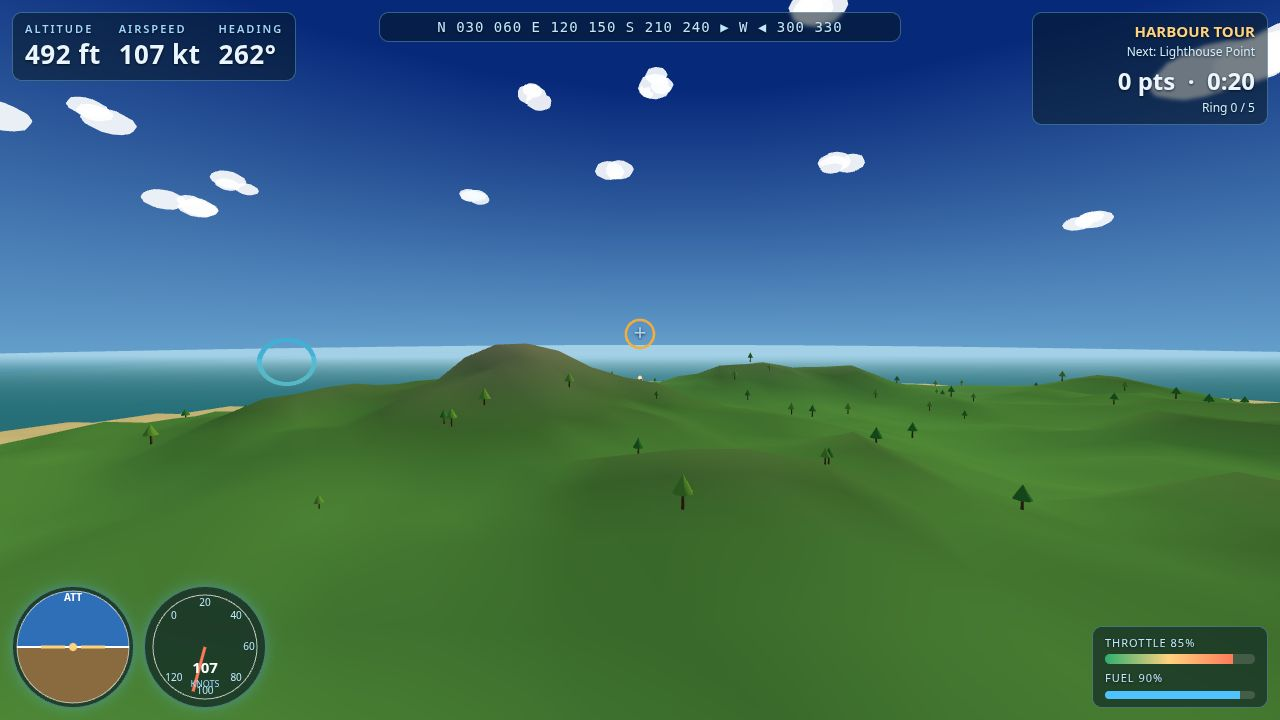
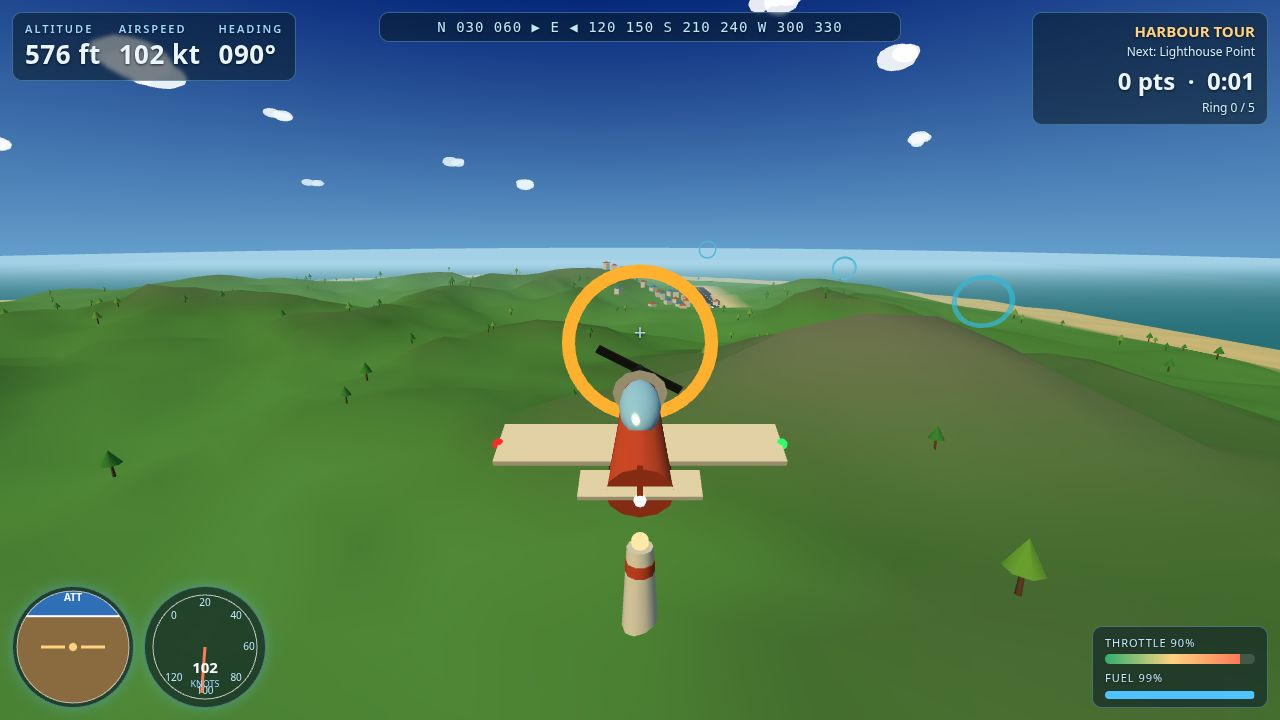
v2: stage the harbour-tour screenshot at the lighthouse
Tour shot was a cockpit view with no plane and no lighthouse in frame.
Stage it like the landing shot: chase view west of the lighthouse, tower
and amber sight ring dead ahead, Old Town and sea behind. Only 2s of
autopilot so the frame holds. Re-shot all four; each verified distinct.

diff --git a/game/src/shots.js b/game/src/shots.js
@@ -3,7 +3,8 @@
 // ?shot=cover — mid-rally, through a ring with the runway ahead.
 // ?shot=rally — low over the harbour, next ring glowing amber.
 // ?shot=landing — on final approach to Runway 09.
-// ?shot=tour — over the lighthouse, town and sea in one frame.
+// ?shot=tour — chase view west of the lighthouse, the tower and its amber
+//   sight ring dead ahead, Old Town and the sea on the horizon behind it.
 import { STEP } from './config.js';
 import { EVENT_CRASH } from './flight.js';
 
@@ -11,7 +12,7 @@ const SCENES = {
   cover: { mission: 'rally', seconds: 22, camera: 'chase' },
   rally: { mission: 'rally', seconds: 14, camera: 'chase' },
   landing: { mission: 'landing', seconds: 5, camera: 'chase' },
-  tour: { mission: 'tour', seconds: 20, camera: 'cockpit' },
+  tour: { mission: 'tour', seconds: 2, camera: 'chase' },
 };
 
 export function stageShot(name, flight, renderer) {
@@ -29,6 +30,16 @@ export function stageShot(name, flight, renderer) {
     s.heading = Math.PI / 2; s.pitch = -0.06; s.bank = 0;
     s.speed = 50; s.throttle = 0.6; s.onGround = false; s.airborne = true;
     s.ringsDone = 1; s.ring = null;
+  }
+  if (name === 'tour') {
+    // Stage the harbour tour at its best vantage instead of flying 20 s out of
+    // it: west of the lighthouse on its latitude, heading east, so the tower
+    // and its amber sight ring sit dead ahead with Old Town and the sea behind.
+    // Only 2 s of autopilot run, so the plane barely drifts from this frame.
+    const s = flight.state;
+    s.x = -1000; s.z = 420; s.y = 210;
+    s.heading = Math.PI / 2; s.pitch = -0.02; s.bank = 0;
+    s.speed = 50; s.throttle = 0.6; s.onGround = false; s.airborne = true;
   }
   // Take off (or fly on, for the staged approach), then hand the stick to the autopilot.
   for (let i = 0; i < scene.seconds / STEP; i += 1) {
